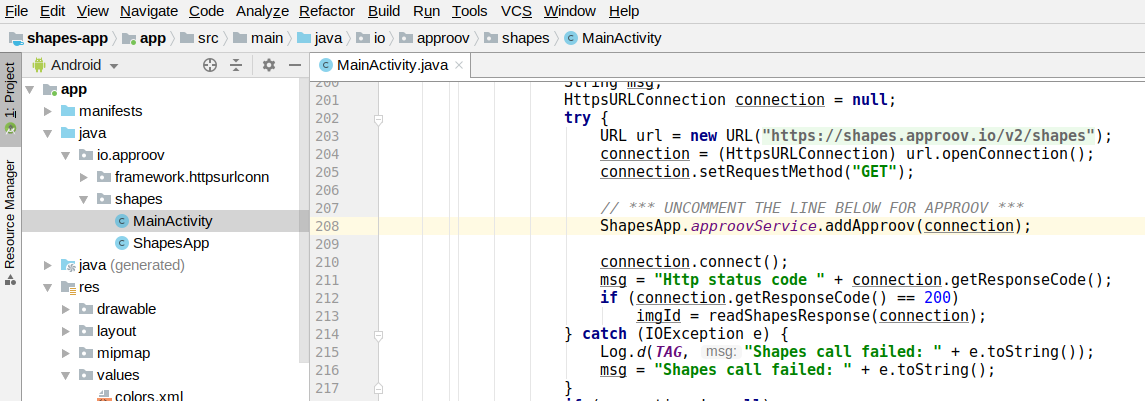
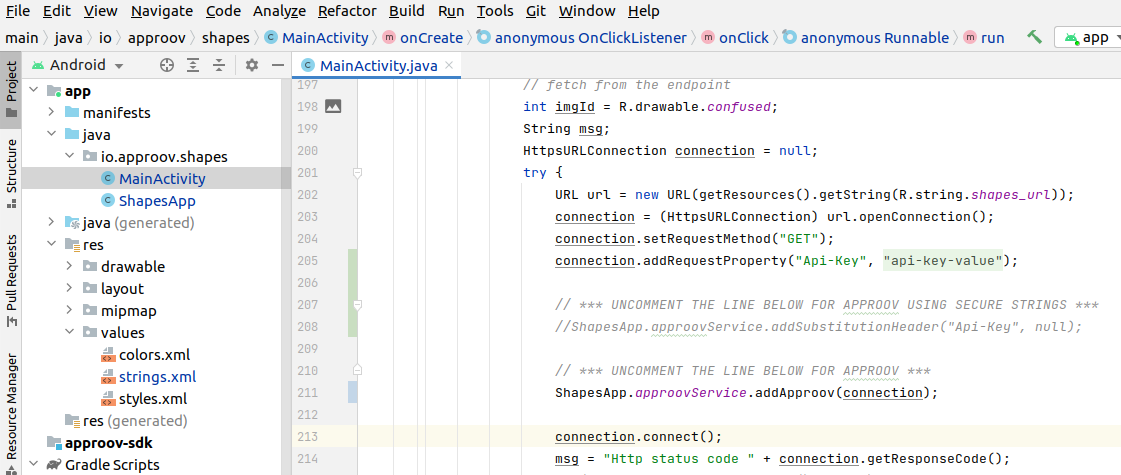
Upgrade to use 3.0.0 SDKs

Changed region(s): [[0.0, 0.0, 1.0, 1.0], [0.4683, 0.6284, 0.9991, 1.0], [0.4683, 0.3591, 0.4996, 0.389]]

diff --git a/shapes-app/app/src/main/java/io/approov/shapes/MainActivity.java b/shapes-app/app/src/main/java/io/approov/shapes/MainActivity.java
@@ -1,4 +1,3 @@
-// Main activity for Approov Shapes App Demo (using HttpsUrlConnection)
 //
 // MIT License
 //
@@ -45,7 +44,7 @@ public class MainActivity extends Activity {
     private View statusView = null;
     private ImageView statusImageView = null;
     private TextView statusTextView = null;
-    private Button connectivityCheckButton = null;
+    private Button helloCheckButton = null;
     private Button shapesCheckButton = null;
 
     /**
@@ -123,11 +122,11 @@ public class MainActivity extends Activity {
         statusView = findViewById(R.id.viewStatus);
         statusImageView = (ImageView) findViewById(R.id.imgStatus);
         statusTextView = findViewById(R.id.txtStatus);
-        connectivityCheckButton = findViewById(R.id.btnConnectionCheck);
+        helloCheckButton = findViewById(R.id.btnConnectionCheck);
         shapesCheckButton = findViewById(R.id.btnShapesCheck);
 
-       // handle connection check
-       connectivityCheckButton.setOnClickListener(new View.OnClickListener() {
+       // handle hello connection check
+       helloCheckButton.setOnClickListener(new View.OnClickListener() {
             @Override
             public void onClick(View view) {
                 // hide status
@@ -156,8 +155,8 @@ public class MainActivity extends Activity {
                                 imgId = R.drawable.hello;
                         }
                         catch (IOException e) {
-                            Log.d(TAG, "Connectivity call failed: " + e.toString());
-                            msg = "Connection call failed: " + e.toString();
+                            Log.d(TAG, "Hello call failed: " + e.toString());
+                            msg = "Hello call failed: " + e.toString();
                         }
                         if (connection != null)
                             connection.disconnect();
@@ -203,6 +202,10 @@ public class MainActivity extends Activity {
                         URL url = new URL(getResources().getString(R.string.shapes_url));
                         connection = (HttpsURLConnection) url.openConnection();
                         connection.setRequestMethod("GET");
+                        connection.addRequestProperty("Api-Key", getResources().getString(R.string.shapes_api_key));
+
+                        // *** UNCOMMENT THE LINE BELOW FOR APPROOV USING SECURE STRINGS ***
+                        //ShapesApp.approovService.addSubstitutionHeader("Api-Key", null);
 
                         // *** UNCOMMENT THE LINE BELOW FOR APPROOV ***
                         //ShapesApp.approovService.addApproov(connection);

diff --git a/shapes-app/app/src/main/java/io/approov/shapes/ShapesApp.java b/shapes-app/app/src/main/java/io/approov/shapes/ShapesApp.java
@@ -1,4 +1,3 @@
-// Application class for Approov Shapes App Demo (using HttpsUrlConnection)
 //
 // MIT License
 //

diff --git a/SECRET-PROTECTION.md b/SECRET-PROTECTION.md
@@ -1,0 +1,117 @@
+# Secret Protection
+You should use this option if you wish to protect access to 3rd party or managed APIs where you are not able to add an Approov token check to the backend. This allows client secrets, or API keys, used for access to be protected with Approov. Rather than build secrets into an app where they might be reverse engineered, they are only provided at runtime by Approov for apps that are pass Approov attestation. This substantially improves your protection and prevents these secrets being abused by attackers. Where you are able to modify the backend we recommend you use Token Protection for further enchanced flexibility and security.
+
+This quickstart provides straigtforward implementation if the secret is currently supplied in a request header to the API. The quickstart interceptor is able to automatically rewrite headers as the requests are being made, to automatically substitute in the secret, but only if the app has passed the Approov attestation checks. If the app fails its checks then you can add a custom [rejection](#handling-rejections) handler.
+
+These additional steps require access to the [Approov CLI](https://approov.io/docs/latest/approov-cli-tool-reference/), please follow the [Installation](https://approov.io/docs/latest/approov-installation/) instructions.
+
+## ENABLING MANAGED TRUST ROOTS
+Client secrets or API keys also need to be protected in transit. For 3rd party APIs you should not pin against their certificates since you are not in control of when they might changed. Instead the [Managed Trust Roots](https://approov.io/docs/latest/approov-usage-documentation/#managed-trust-roots) feature can be used to protect TLS.
+
+Ensure managed trust roots are enabled using:
+
+```
+approov pin -setManagedTrustRoots on 
+```
+
+This ensures connections may only use official certificates, and blocks the use of self signed certificates that might be used by a Man-in-the-Middle (MitM) attacker.
+
+## ADDING API DOMAINS
+In order for secrets to be protected for particular API domains it is necessary to inform Approov about them. Execute the following command:
+
+```
+approov api -add <your-domain> -noApproovToken
+```
+
+This informs Approov that it should be active for the domain, but does not need to send Approov tokens for it. Adding the domain ensures that the channel will be protected against Man-in-the-Middle (MitM) attacks.
+
+## MIGRATING THE SECRET INTO APPROOV
+It is assumed that you already have some client secrets and/or API keys in your app that you would like to migrate for protection by Approov. To do this you first need to enable the [Secure Strings](https://approov.io/docs/latest/approov-usage-documentation/#secure-strings) feature:
+
+```
+approov secstrings -setEnabled
+```
+
+The quickstart integration works by allowing you to replace the secret in your app with a placeholder value instead, and then the placeholder value is mapped to the actual secret value on the fly by the interceptor (if the app passes Approov attestation). The shipped app code will only contain the placeholder values.
+
+If your app currently uses `<secret-value>` then replace it in your app with the value `<secret-placeholder>`. Choose a suitable placeholder name to reflect the type of the secret. The placeholder value will be added to requests in the normal way, but you should be using the Approov enabled networking client to perfom the substituion.
+
+You must inform Approov that it should substitute `<secret-placeholder>` for `<secret-value>` in requests as follows:
+
+```
+approov secstrings -addKey <secret-placeholder> -predefinedValue <secret-value>
+```
+
+If the secret value is provided on the header `<secret-header>` then it is necessary to notify the `ApproovService` that the header is subject to substitution. You do this by making the call once, after initialization:
+
+```Java
+YourApp.approovService.addSubstitutionHeader("<secret-header>", null);
+```
+
+With this in place the Approov interceptor should replace the `<secret-placeholder>` with the `<secret-value>` as required when the app passes attestation. You can add up to 16 different secret values to be substituted in this way. Since the mapping lookup is performed on the placeholder value you have the flexibiluty of providing different secrets on different API calls, even if they passed with the same header name.
+
+Since earlier released versions of the app may have already leaked the `<secret-value>`, you may wish to refresh the secret at some later point when any older version of the app is no longer in use. You can of course do this update over-the-air using Approov without any need to modify the app.
+
+## REGISTERING APPS
+In order for Approov to recognize the app as being valid it needs to be registered with the service. Change the directory to the top level of your app project and then register the app with Approov:
+
+```
+approov registration -add app/build/outputs/apk/debug/app-debug.apk
+```
+Note, on Windows you need to substitute \ for / in the above command.
+
+> **IMPORTANT:** The registration takes up to 30 seconds to propagate across the Approov Cloud Infrastructure, therefore don't try to run the app again before this time as elapsed. During development of your app you can ensure it [always passes](https://approov.io/docs/latest/approov-usage-documentation/#adding-a-device-security-policy) on your device to not have to register the APK each time you modify it.
+
+[Managing Registrations](https://approov.io/docs/latest/approov-usage-documentation/#managing-registrations) provides more details for app registrations, especially for releases to the Play Store. Note that you may also need to apply specific [Android Obfuscation](https://approov.io/docs/latest/approov-usage-documentation/#android-obfuscation) rules for your app when releasing it.
+
+## HANDLING REJECTIONS
+If the app is not recognized as being valid by Approov then an `ApproovRejectionException` is thrown on the request and the API call is not completed. The secret value will never be communicated to the app in this case.
+
+Your app should specifically catch this exception and provide some feedback to the user to explain why the app is not working. The `ApproovRejectionException` has a `geARC()` method which provides an [Attestation Response Code](https://approov.io/docs/latest/approov-usage-documentation/#attestation-response-code) which can provide more information about the status of the device, without revealing any details to the end user.
+
+If you wish to provide more direct feedback then enable the [Rejection Reasons](https://approov.io/docs/latest/approov-usage-documentation/#rejection-reasons) feature:
+
+```
+approov policy -setRejectionReasons on
+```
+
+You will then be able to use `getRejectionReasons()` on an `ApproovRejectionException` to obtain a comma separated list of [device properties](https://approov.io/docs/latest/approov-usage-documentation/#device-properties) responsible for causing the rejection.
+
+## FURTHER OPTIONS
+
+See [Getting Started With Approov](https://approov.io/docs/latest/approov-usage-documentation/#getting-started-with-approov) for information about additional Approov features you may wish to try.
+
+The quickstart also provides the following additional methods:
+
+### Header Prefixes
+In some cases the value to be substituted on a header may be prefixed by some fixed string. A common case is the presence of `Bearer` included in an authorization header to indicate the use of a bearer token. In this case you can specify a prefix as follows:
+
+```
+YourApp.approovService.addSubstitutionHeader("Authorization", "Bearer ");
+```
+
+This causes the `Bearer` prefix to be stripped before doing the lookup for the substitution, and the `Bearer` prefix added to the actual secret value as part of the substitution.
+
+### App Instance Secure Strings
+As shown, it is possible to set predefined secret strings that are only communicated to passing apps. It is also possible to get and set secure string values for each app instance. These are never communicated to the Approov cloud service, but are encrypted at rest using keys which can only be retrieved by passing apps.
+
+Use the the following method in `ApproovService`:
+
+```
+public static String fetchSecureString(String key, String newDef) throws ApproovException
+```
+
+to lookup a secure string with the given `key`, returning `null` if it is not defined. Note that you should never cache this value in your code. You may define a new value for the `key` by passing a new value in `newDef` rather than `null`.
+
+Note that this method may make networking calls so should never be called from the main UI thread. The call may also fail with an `ApproovException`. If this is of type `ApproovNetworkException` then a retry should be performed as the issue is temporary and network related. If `ApproovRejectionException` is thrown then the app has not passed Approov attestation and some user feedback should be provided.
+
+This method is also useful for providing runtime secrets protection when the values are not passed on headers. Secure strings set using this method may also be looked up using subsequent networking interceptor header substitutions. 
+
+### Prefetching
+If you wish to reduce the latency associated with substituting the first secret, then make this call immediately after creating `ApproovService`:
+
+```Java
+YourApp.approovService.prefetch()
+```
+
+This initiates the process of fetching the required information as a background task, so that it is available immediately when subsequently needed. Note the information will automatically expire after approximately 5 minutes.

diff --git a/SHAPES-EXAMPLE.md b/SHAPES-EXAMPLE.md
@@ -5,7 +5,7 @@ This quickstart is written specifically for native Android apps that are written
 ## WHAT YOU WILL NEED
 * Access to a trial or paid Approov account
 * The `approov` command line tool [installed](https://approov.io/docs/latest/approov-installation/) with access to your account
-* [Android Studio](https://developer.android.com/studio) installed (version 4.1.2 is used in this guide)
+* [Android Studio](https://developer.android.com/studio) installed (Android Studio Bumblebee 2021.1.1 is used in this guide)
 * The contents of this repo
 
 ## RUNNING THE SHAPES APP WITHOUT APPROOV
@@ -26,13 +26,15 @@ Click on the `Say Hello` button and you should see this:
     <img src="readme-images/hello-okay.png" width="256" title="Hello Okay">
 </p>
 
-This checks the connectivity by connecting to the endpoint `https://shapes.approov.io/v1/hello`. Now press the `Get Shape` button and you will see this:
+This checks the connectivity by connecting to the endpoint `https://shapes.approov.io/v1/hello`. Now press the `Get Shape` button and you will see this (or a different shape):
 
 <p>
-    <img src="readme-images/shapes-bad.png" width="256" title="Shapes Bad">
+    <img src="readme-images/shapes-good.png" width="256" title="Shapes Bad">
 </p>
 
-This contacts `https://shapes.approov.io/v2/shapes` to get the name of a random shape. It gets the status code 400 (`Bad Request`) because this endpoint is protected with an Approov token. Next, you will add Approov into the app so that it can generate valid Approov tokens and get shapes.
+This contacts `https://shapes.approov.io/v1/shapes` to get the name of a random shape. This endpoint is protected with an API key that is built into the code, and therefore can be easily extracted from the app.
+
+The subsequent steps of this guide show you how to provide better protection, either using an Approov Token or by migrating the API key to become an Approov managed secret.
 
 ## ADD THE APPROOV DEPENDENCY
 
@@ -51,7 +53,7 @@ The `approov-service-httpsurlconn` dependency needs to be added as follows to th
 Note that in this case the dependency has been added with the tag `main-SNAPSHOT`. However, for your projects we recommend you add a dependency to a specific version:
 
 ```
-implementation 'com.github.approov:approov-service-httpsurlconn:2.9.0'
+implementation 'com.github.approov:approov-service-httpsurlconn:3.0.0'
 ```
 
 Make sure you do a Gradle sync (by selecting `Sync Now` in the banner at the top of the modified `.gradle` file) after making these changes.
@@ -60,7 +62,7 @@ Note that `approov-service-httpsurlconn` is actually an open source wrapper laye
 
 ## ENSURE THE SHAPES API IS ADDED
 
-In order for Approov tokens to be generated for `https://shapes.approov.io/v2/shapes` it is necessary to inform Approov about it:
+In order for Approov tokens to be generated for `shapes.approov.io` it is necessary to inform Approov about it:
 ```
 approov api -add shapes.approov.io
 ```
@@ -76,13 +78,17 @@ This initializes Approov when the app is first created. It uses the configuratio
 
 The Approov SDK needs a configuration string to identify the account associated with the app. It will have been provided in the Approov onboarding email (it will be something like `#123456#K/XPlLtfcwnWkzv99Wj5VmAxo4CrU267J1KlQyoz8Qo=`). Copy this into `io/approov/shapes/ShapesApp.java:36`, replacing the text `<enter-your-config-string-here>`.
 
-Next we need to use Approov when we make request for the shapes. Only a single line of code needs to be changed at `io/approov/shapes/MainActivity.java:208`:
+Next we need to use Approov when we make request for the shapes. Only a single line of code needs to be changed at `io/approov/shapes/MainActivity.java:211`:
 
 ![Approov Fetch](readme-images/approov-fetch.png)
 
 We pass the `HttpsUrlConnection` to the `ApproovService.addApproov` method and this automatically fetches an Approov token and adds it as a header to the request. It also pins the connection to the endpoint to ensure that no Man-in-the-Middle can eavesdrop on any communication being made.
 
-Note that this method may throw an `IOException` if it is unable to fetch an Approov token, typically due to no or poor Internet connectivity. Therefore the call should be in the same `try-catch` block as [`connect`](https://developer.android.com/reference/java/net/URLConnection.html#connect()) or reads of the body for a `GET`. If `addApproov` throws an exception then the user should be able to initiate a retry. During development an exception may be thrown due to a misconfiguration, see [Token Fetch Errors](https://approov.io/docs/latest/approov-usage-documentation/#token-fetch-errors).
+Note that this method may throw an `ApproovException` (derived from `IOException`) if it is unable to fetch an Approov token due to no or poor Internet connectivity then `ApproovNetworkException` is thrown. In this case the user should be able to initiate a retry. Therefore the call should be in a`try-catch` block, possibly the same one as [`connect`](https://developer.android.com/reference/java/net/URLConnection.html#connect()) or reads of the body for a `GET`.
+
+You should also edit the `res/values/strings.xml` file to change to using the shapes `https://shapes.approov.io/v3/shapes/` endpoint that checks Approov tokens (as well as the API key built into the app):
+
+![Shapes V3 Endpoint](readme-images/shapes-v3-endpoint.png)
 
 Run the app again to ensure that the `app-debug.apk` in the generated build outputs is up to date.
 
@@ -97,7 +103,7 @@ Note, on Windows you need to substitute \ for / in the above command.
 
 > **IMPORTANT:** The registration takes up to 30 seconds to propagate across the Approov Cloud Infrastructure, therefore don't try to run the app again before this time has elapsed. During development of your app you can ensure it [always passes](https://approov.io/docs/latest/approov-usage-documentation/#adding-a-device-security-policy) so you do not have to register the APK each time you modify it.
 
-## RUNNING THE SHAPES APP WITH APPROOV
+## SHAPES APP WITH APPROOV TOKEN PROTECTION
 
 Run the app again without making any changes to the app and press the `Get Shape` button. You should now see this (or another shape):
 
@@ -118,3 +124,38 @@ If you still don't get a valid shape then there are some things you can try. Rem
 * Consider using an [Annotation Policy](https://approov.io/docs/latest/approov-usage-documentation/#annotation-policies) during initial development to directly see why the device is not being issued with a valid token.
 * Use `approov metrics` to see [Live Metrics](https://approov.io/docs/latest/approov-usage-documentation/#live-metrics) of the cause of failure.
 * You can use a debugger or emulator and get valid Approov tokens on a specific device by ensuring it [always passes](https://approov.io/docs/latest/approov-usage-documentation/#adding-a-device-security-policy). As a shortcut, when you are first setting up, you can add a [device security policy](https://approov.io/docs/latest/approov-usage-documentation/#adding-a-device-security-policy) using the `latest` shortcut as discussed so that the `device ID` doesn't need to be extracted from the logs or an Approov token.
+
+## SHAPES APP WITH SECRET PROTECTION
+
+This section provides an illustration of an alternative option for Approov protection if you are not able to modify the backend to add an Approov Token check. Firstly, revert any previous change to `res/values/strings.xml` to using `https://shapes.approov.io/v1/shapes/` that simply checks for an API key. The `shapes_api_key` should also be changed to `shapes_api_key_placeholder`, removing the actual API key out of the code:
+
+![Shapes V1 Endpoint](readme-images/shapes-v1-endpoint.png)
+
+Next we enable the [Secure Strings](https://approov.io/docs/latest/approov-usage-documentation/#secure-strings) feature:
+
+```
+approov secstrings -setEnabled
+```
+
+You must inform Approov that it should map `shapes_api_key_placeholder` to `yXClypapWNHIifHUWmBIyPFAm` (the actual API key) in requests as follows:
+
+```
+approov secstrings -addKey shapes_api_key_placeholder -predefinedValue yXClypapWNHIifHUWmBIyPFAm
+```
+
+Next we need to inform Approov that it needs to substitute the placeholder value for the real API key on the `Api-Key` header. Only a single line of code needs to be changed at `io/approov/shapes/MainActivity.java:208`:
+
+![Approov Substitute Header](readme-images/approov-subs-header.png)
+
+Build and run the app again to ensure that the `app-debug.apk` in the generated build outputs is up to date. You need to register the updated app with Approov. Change directory to the top level of the `shapes-app` project and then register the app with:
+
+```
+approov registration -add app/build/outputs/apk/debug/app-debug.apk
+```
+Run the app again without making any changes to the app and press the `Get Shape` button. You should now see this (or another shape):
+
+<p>
+    <img src="readme-images/shapes-good.png" width="256" title="Shapes Good">
+</p>
+
+This means that the registered app is able to access the API key, even though it is no longer embedded in the app configuration, and provide it to the shapes request.

diff --git a/TOKEN-PROTECTION.md b/TOKEN-PROTECTION.md
@@ -1,0 +1,59 @@
+# Token Protection
+You should use this option if you wish to protect access to your APIs using an Approov token. We recommend this approach where it is possible to modify the backend API implementation to perform the token verification. Various [Backend API Quickstarts](https://approov.io/docs/latest/approov-integration-examples/backend-api/) are available to suit your particular situation depending on the backend technology used. You will need to implement this in addition to the steps in this frontend guide.
+
+These steps require access to the [Approov CLI](https://approov.io/docs/latest/approov-cli-tool-reference/), please follow the [Installation](https://approov.io/docs/latest/approov-installation/) instructions.
+
+## ADDING API DOMAINS
+In order for Approov tokens to be added by the interceptor for particular API domains it is necessary to inform Approov about them. Execute the following command:
+
+```
+approov api -add <your-domain>
+```
+Approov tokens will then be added automatically to any requests to that domain (using the `Approov-Token` header, by default).
+
+Note that this will also add a public key certicate pin for connections to the domain to ensure that no Man-in-the-Middle attacks on your app's communication are possible. Please read [Managing Pins](https://approov.io/docs/latest/approov-usage-documentation/#public-key-pinning-configuration) to understand this in more detail.
+
+## REGISTERING APPS
+In order for Approov to recognize the app as being valid it needs to be registered with the service. Change the directory to the top level of your app project and then register the app with Approov:
+
+```
+approov registration -add app/build/outputs/apk/debug/app-debug.apk
+```
+Note, on Windows you need to substitute \ for / in the above command.
+
+> **IMPORTANT:** The registration takes up to 30 seconds to propagate across the Approov Cloud Infrastructure, therefore don't try to run the app again before this time as elapsed. During development of your app you can ensure it [always passes](https://approov.io/docs/latest/approov-usage-documentation/#adding-a-device-security-policy) on your device to not have to register the APK each time you modify it.
+
+[Managing Registrations](https://approov.io/docs/latest/approov-usage-documentation/#managing-registrations) provides more details for app registrations, especially for releases to the Play Store. Note that you may also need to apply specific [Android Obfuscation](https://approov.io/docs/latest/approov-usage-documentation/#android-obfuscation) rules for your app when releasing it.
+
+## FURTHER OPTIONS
+
+See [Getting Started With Approov](https://approov.io/docs/latest/approov-usage-documentation/#getting-started-with-approov) for information about additional Approov features you may wish to try.
+
+The quickstart also provides the following additional methods:
+
+### Changing Approov Token Header Name
+The default header name of `Approov-Token` can be changed as follows:
+
+```Java
+YourApp.approovService.setApproovHeader("Authorization", "Bearer ")
+```
+
+The first parameter is the new header name and the second a prefix to be added to the Approov token. This is primarily for integrations where the Approov Token JWT might need to be prefixed with `Bearer` and passed in the `Authorization` header.
+
+### Token Binding
+If want to use [Token Binding](https://approov.io/docs/latest/approov-usage-documentation/#token-binding) then set the header holding the value to be used for binding as follows:
+
+```Java
+YourApp.approovService.setBindingHeader("Authorization")
+```
+
+In this case it means that the value of `Authorization` holds the token value to be bound. This only needs to be called once. On subsequent requests the value of the specified header is read and its value set as the token binding value. Note that you should select a header whose value does not typically change from request to request, as each change requires a new Approov token to be fetched.
+
+### Prefetching
+If you wish to reduce the latency associated with fetching the first Approov token, then make this call immediately after creating `ApproovService`:
+
+```Java
+YourApp.approovService.prefetch()
+```
+
+This initiates the process of fetching an Approov token as a background task, so that a cached token is available immediately when subsequently needed, or at least the fetch time is reduced. Note that there is no point in performing a prefetch if you are using token binding.

diff --git a/README.md b/README.md
@@ -24,7 +24,7 @@ Secondly, add the dependency in your app's `build.gradle`:
 
 ```
 dependencies {
-	 implementation 'com.github.approov:approov-service-httpsurlconn:2.9.0'
+	 implementation 'com.github.approov:approov-service-httpsurlconn:3.0.0'
 }
 ```
 Make sure you do a Gradle sync (by selecting `Sync Now` in the banner at the top of the modified `.gradle` file) after making these changes.
@@ -71,11 +71,20 @@ You can then make Approov enabled `HttpsUrlConnection` API calls using the follo
 YourApp.approovService.addApproov(connection);
 ```
 
-This adds the `Approov-Token` header and pins the connection.
+For API domains that are configured to be protected with an Approov token, this adds the `Approov-Token` header and pins the connection. This may also substitute header values when using secret protection.
+
+Approov errors will generate an `ApproovException`, which is a type of `IOException`. This may be further specialized into an `ApproovNetworkException`, indicating an issue with networking that should provide an option for a user initiated retry.
 
 ## CHECKING IT WORKS
 Initially you won't have set which API domains to protect, so the interceptor will not add anything. It will have called Approov though and made contact with the Approov cloud service. You will see logging from Approov saying `UNKNOWN_URL`.
 
 Your Approov onboarding email should contain a link allowing you to access [Live Metrics Graphs](https://approov.io/docs/latest/approov-usage-documentation/#metrics-graphs). After you've run your app with Approov integration you should be able to see the results in the live metrics within a minute or so. At this stage you could even release your app to get details of your app population and the attributes of the devices they are running upon.
 
-However, to actually protect your APIs there are some further steps you can learn about in [Next Steps](https://github.com/approov/quickstart-android-java-httpsurlconn/blob/master/NEXT-STEPS.md).
+## NEXT STEPS
+To actually protect your APIs there are some further steps. Approov provides two different options for protecting APIs:
+
+* [TOKEN PROTECTION](https://github.com/approov/quickstart-android-java-httpsurlconn/blob/master/TOKEN-PROTECTION.md): You should use this if you control the backend API(s) being protected and are able to modify them to ensure that a valid Approov token is being passed by the app. An [Approov Token](https://approov.io/docs/latest/approov-usage-documentation/#approov-tokens) is short lived crytographically signed JWT proving the authenticity of the call.
+
+* [SECRET PROTECTION](https://github.com/approov/quickstart-android-java-httpsurlconn/blob/master/SECRET-PROTECTION.md): If you do not control the backend API(s) being protected, and are therefore unable to modify it to check Approov tokens, you can use this approach instead. It allows app secrets, and API keys, to be protected so that they no longer need to be included in the built code and are only made available to passing apps at runtime.
+
+Note that it is possible to use both approaches side-by-side in the same app, in case your app uses a mixture of 1st and 3rd party APIs.
